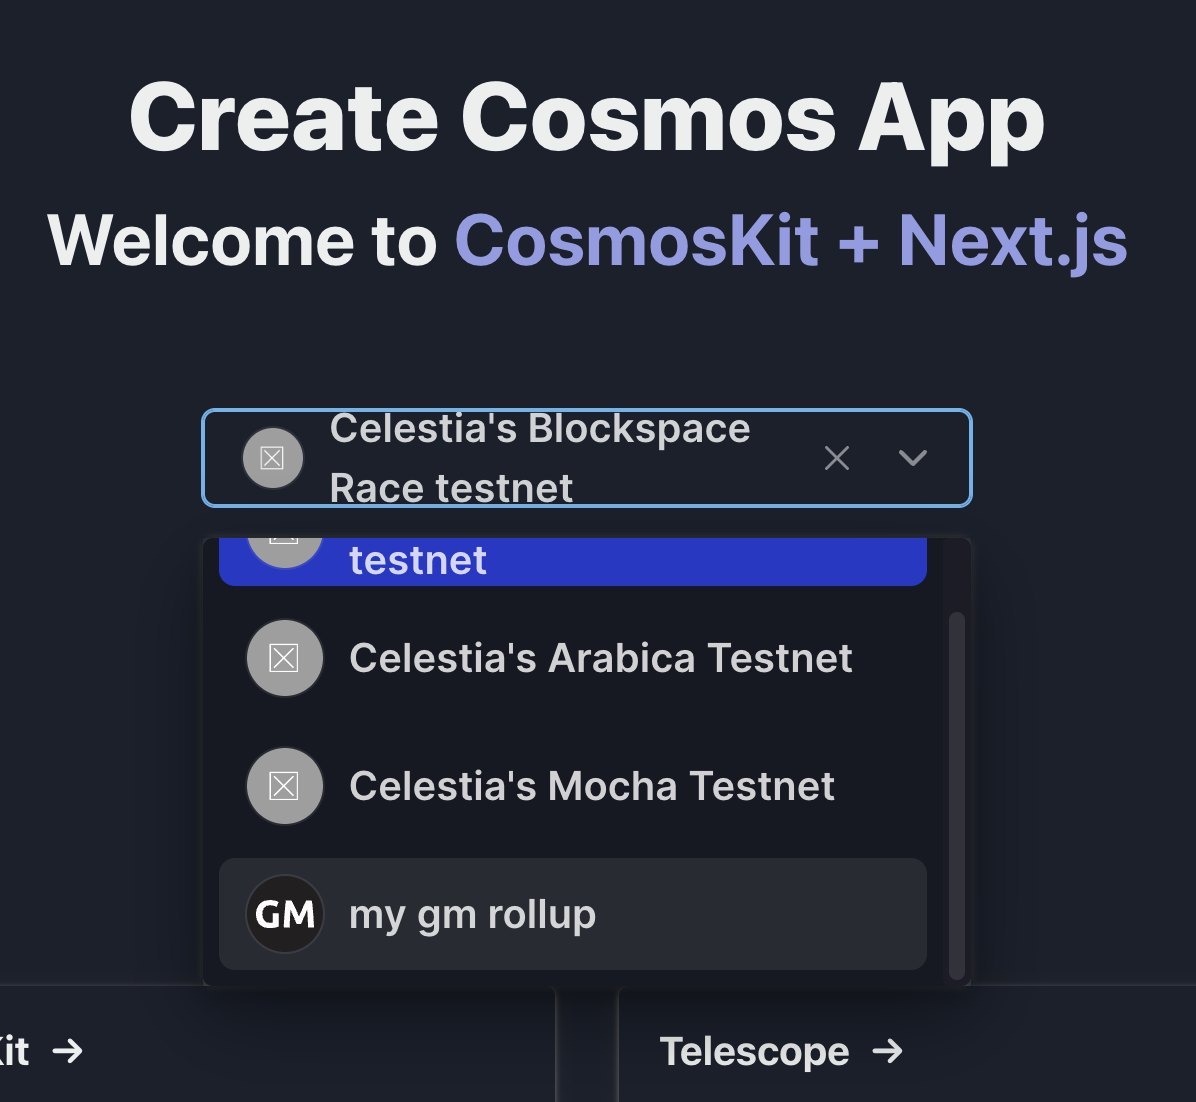
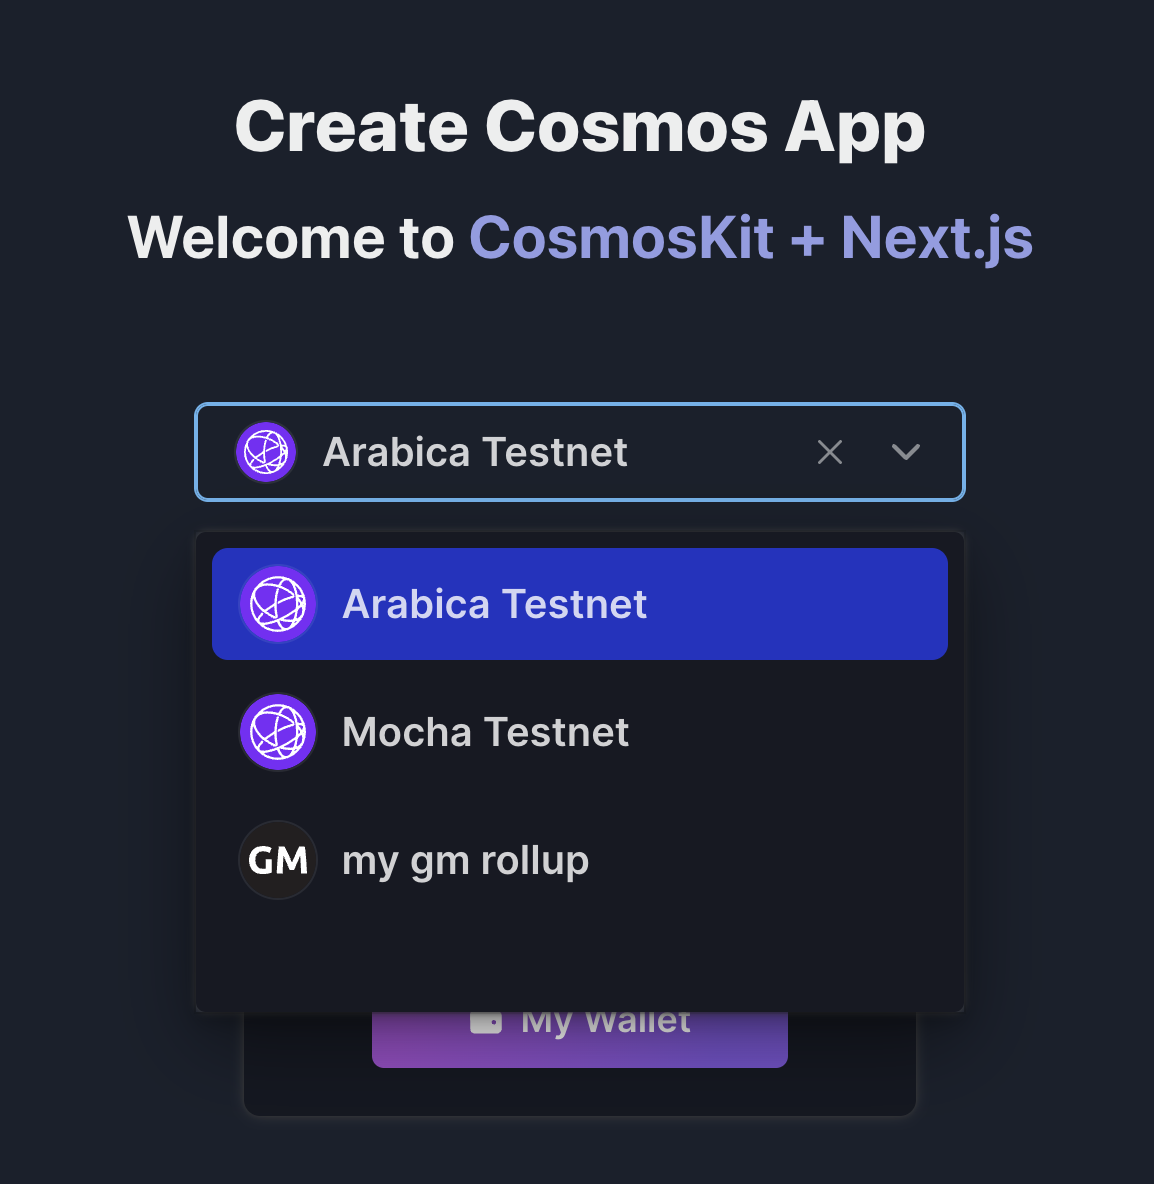
feat: update frontend tutorial

diff --git a/tutorials/gm-world-frontend.md b/tutorials/gm-world-frontend.md
@@ -69,19 +69,16 @@ Follow the instructions at the end of the output to start your app:
 cd ./gm-world && yarn dev
 ```
 
-![cca-3.png](/gm/cca-3.png)
-
 ## Adding your GM portal chain to the config
 
 First, we'll need to make some changes with the default config.
 
 We need to add the array of chains that we would like to test
-in the `components/wallet.tsx` file on underneath imports:
+in the `components/wallet.tsx` file underneath your imports:
 
 ```tsx
 const allowedChains = [
   'gmrollup',
-  'celestiatestnet',
   'celestiatestnet2',
   'celestiatestnet3',
 ];
@@ -131,13 +128,13 @@ export const chain = {
       "rpc": [
         {
           "address": "http://localhost:26657",
-          "provider": "JCS"
+          "provider": "local-network"
         }
       ],
       "rest": [
         {
           "address": "http://localhost:1317",
-          "provider": "JCS"
+          "provider": "local-network"
         }
       ]
     },
@@ -243,29 +240,7 @@ This will save our localhost RPC from being overridden.
 Congratulations! You now have a frontend for your rollup.
 What features do you want to add now?
 
-You may notice that the icons for Celestia testnets are not loading,
-this is due to an outdated version of the chain registry.
-
 ![cca.png](/gm/cca.png)
-
-To update
-these, you can use your terminal:
-
-```bash
-cd $HOME && cd gm-world
-yarn upgrade-interactive --latest
-```
-
-Use arrow keys and the spacebar to select it`@cosmos-kit/core`,
-`@cosmos-kit/cosmostation`, `@cosmos-kit/keplr`, `@cosmos-kit/leap`
-and `@cosmos-kit/react`.
-
-Now use enter to upgrade the dependencies!
-
-Head back to your frontend and take a look, you should see the
-updated icons.
-
-![cca-2.png](/gm/cca-2.png)
 
 <!-- ## TODO
 
